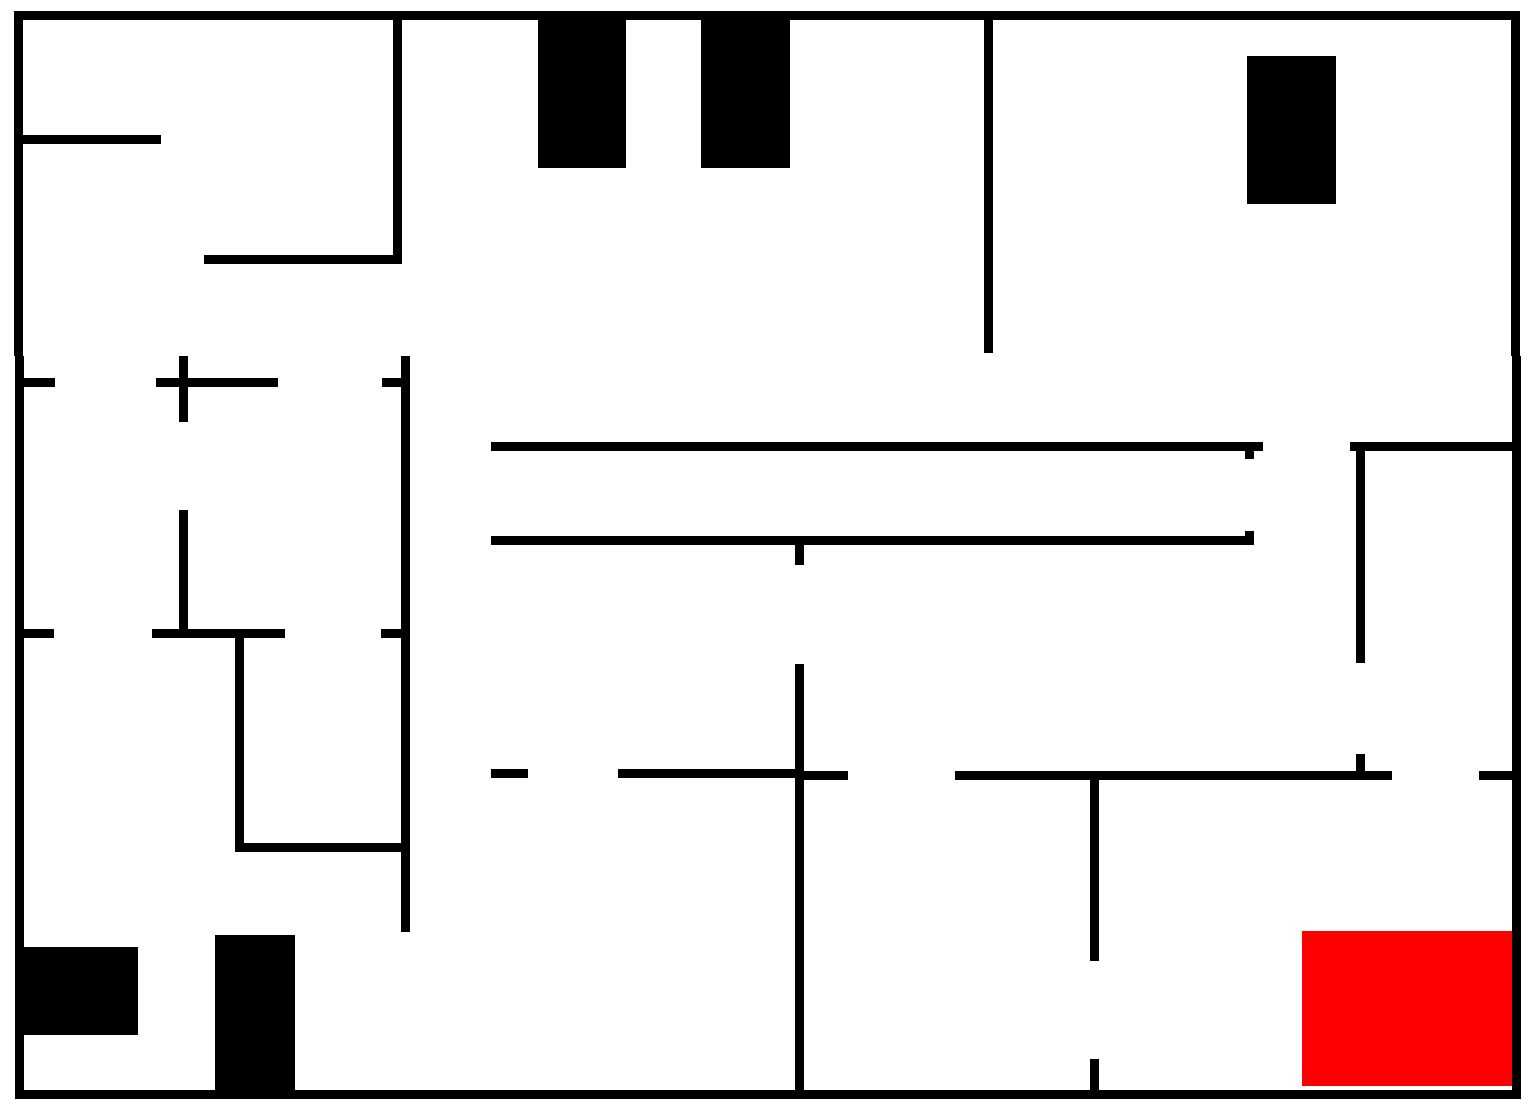
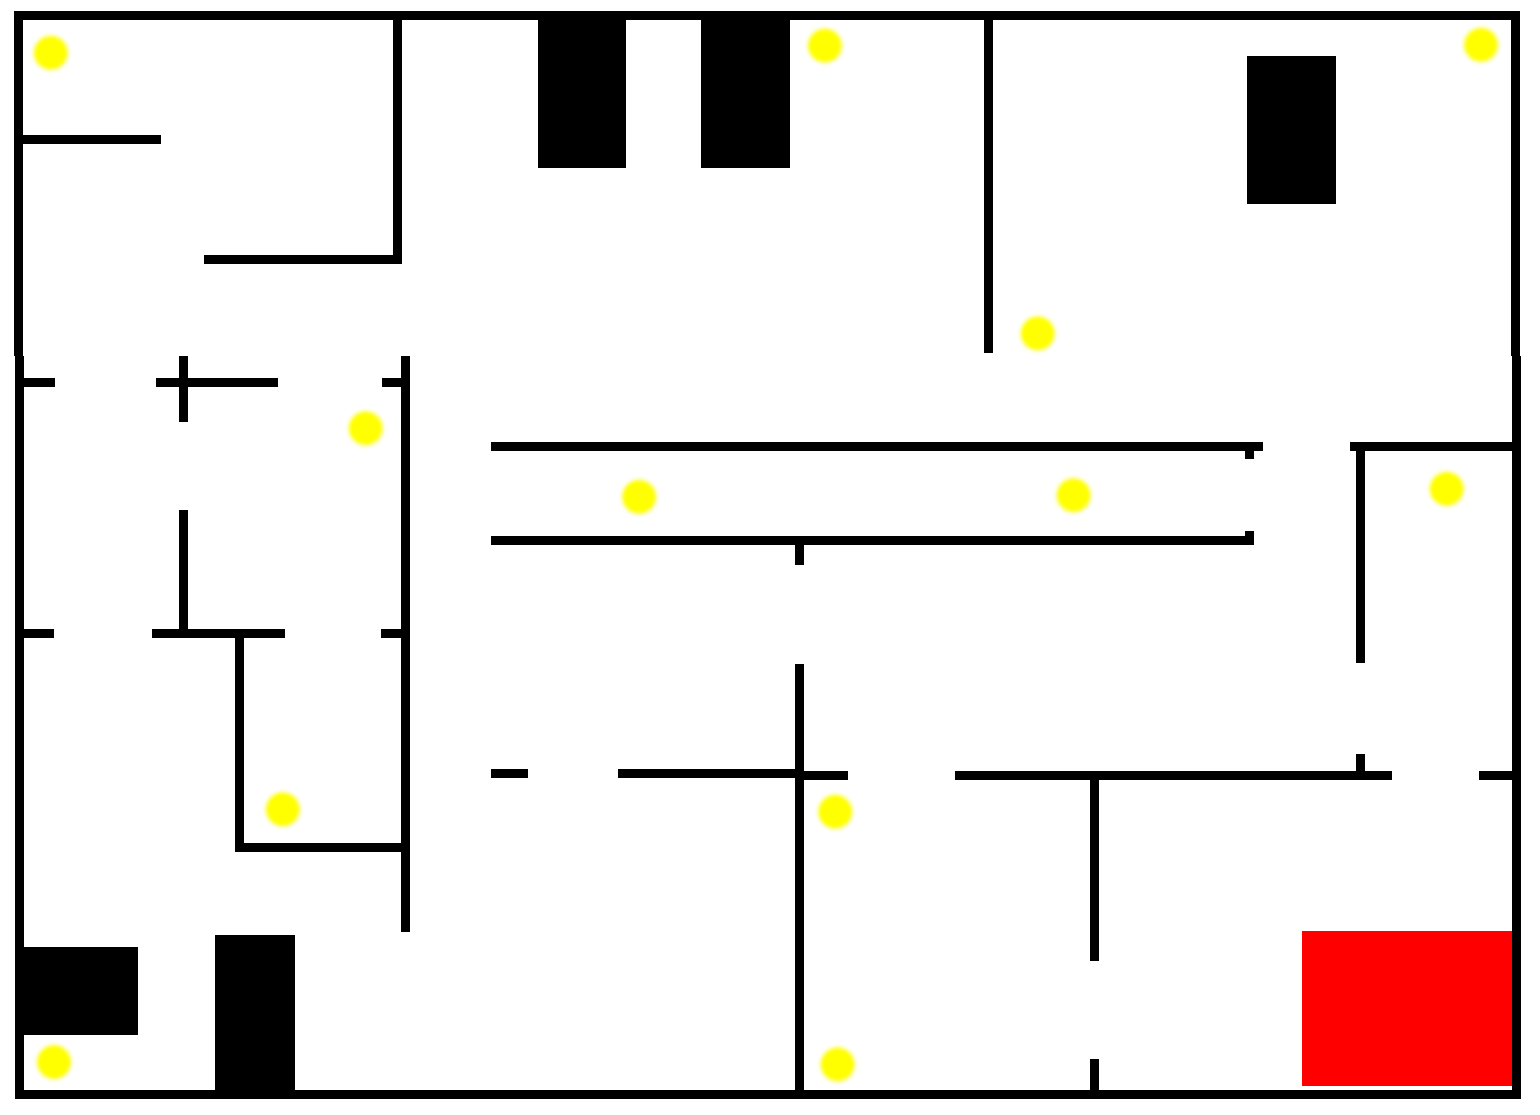
updates mini_eval map

diff --git a/src/swarm_rescue/maps/A_map_mini_eval.py b/src/swarm_rescue/maps/A_map_mini_eval.py
@@ -13,7 +13,7 @@ from spg.utils.definitions import CollisionTypes
 
 from spg_overlay.entities.drone_abstract import DroneAbstract, drone_collision_wall, drone_collision_drone
 from spg_overlay.entities.rescue_center import RescueCenter, wounded_rescue_center_collision
-from spg_overlay.entities.sensor_disablers import ZoneType, NoGpsZone, srdisabler_disables_device
+from spg_overlay.entities.sensor_disablers import ZoneType, NoGpsZone, srdisabler_disables_device, KillZone, NoComZone
 from spg_overlay.entities.wounded_person import WoundedPerson
 from spg_overlay.gui_map.closed_playground import ClosedPlayground
 from spg_overlay.gui_map.map_abstract import MapAbstract
@@ -36,15 +36,21 @@ class MapMiniEval(MapAbstract):
         self._rescue_center = RescueCenter(size=(210,155))
         self._rescue_center_pos = ((637,-451), 0)
 
-        self._no_gps_zone = NoGpsZone(size=(400, 500))
-        self._no_gps_zone_pos = ((-190, 0), 0)
+        self._no_gps_zone = NoGpsZone(size=(400, 600))
+        self._no_gps_zone_pos = ((-130, 0), 0)
 
-        self._wounded_persons_pos = []
+        self._kill_zone = KillZone(size=(100, 200))
+        self._kill_zone_pos = ((-540, 60), 0)
+
+        self._no_com_zone = NoComZone(size=(500, 300))
+        self._no_com_zone_pos = ((600, 0), 0)
+
+        self._wounded_persons_pos = [(67,-506), (-716,-504), (65,-254), (-488,-251), (-131,61), (303,63), (676,69), (-405,130), (267,225), (-720,505), (710,513), (54,512)]
         self._number_wounded_persons = len(self._wounded_persons_pos)
         self._wounded_persons: List[WoundedPerson] = []
 
         orient = random.uniform(-math.pi, math.pi)
-        self._drones_pos = [((295, 118), orient)]
+        self._drones_pos = [((640, -350), orient), ((600, -350), orient), ((560, -350), orient), ((680, -350), orient), ((640, -300), orient), ((600, -300), orient), ((560, -300), orient), ((680, -300), orient)]
         self._number_drones = len(self._drones_pos)
         self._drones: List[DroneAbstract] = []
 
@@ -70,6 +76,12 @@ class MapMiniEval(MapAbstract):
 
         if ZoneType.NO_GPS_ZONE in self._zones_config:
             playground.add(self._no_gps_zone, self._no_gps_zone_pos)
+
+        if ZoneType.KILL_ZONE in self._zones_config:
+            playground.add(self._kill_zone, self._kill_zone_pos)
+
+        if ZoneType.NO_COM_ZONE in self._zones_config:
+            playground.add(self._no_com_zone, self._no_com_zone_pos)
 
         # POSITIONS OF THE WOUNDED PERSONS
         for i in range(self._number_wounded_persons):
